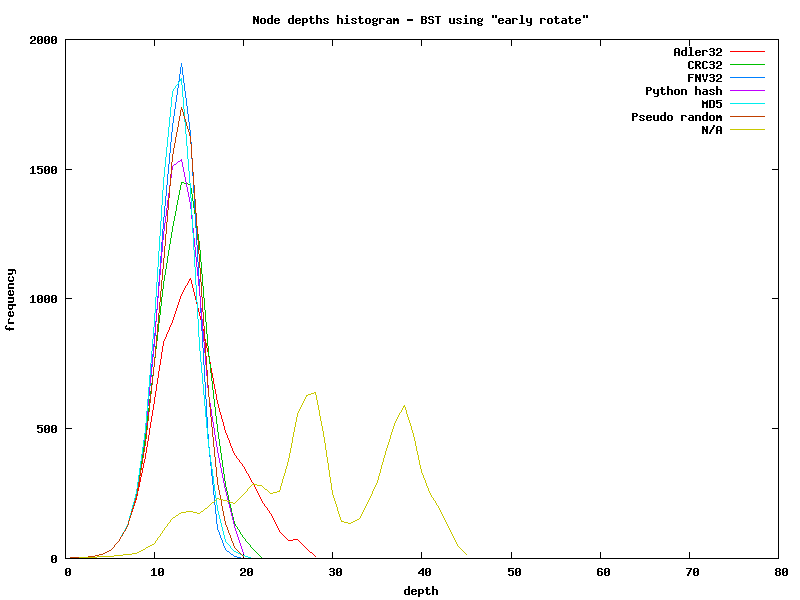
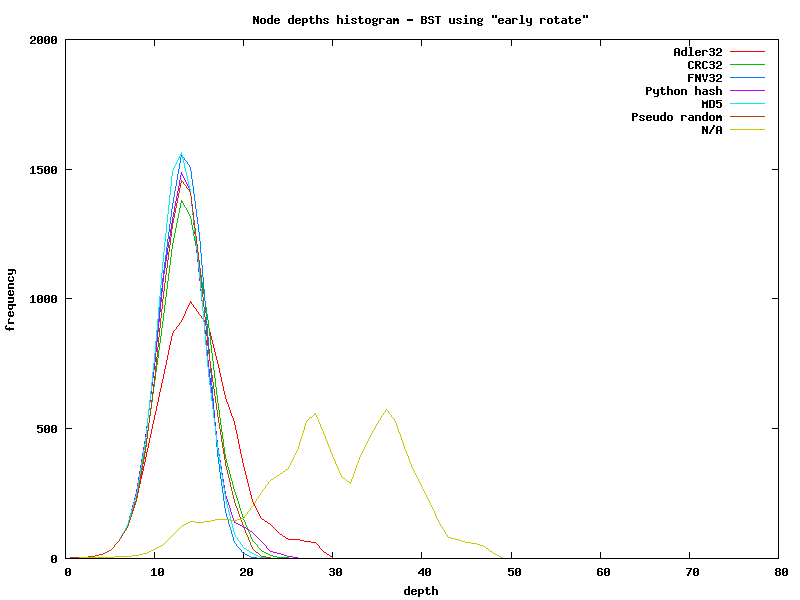
redesign tree early rotate implementation

diff --git a/TreeEarlyRotate.py b/TreeEarlyRotate.py
@@ -17,160 +17,59 @@
 #                /  \
 #          new node  prev
 
-from Tree import Tree
-from Node import Node
+from TreeCustomInsert import TreeCustomInsert
 
-class TreeEarlyRotate(Tree):
-	def insert(self, key, value):
-		if self.root is None:
-			self.root = Node(key, value)
-			return self.root
+class TreeEarlyRotate(TreeCustomInsert):
+	def custom_insert_left(self, new_leaf, node, prev1, prev2, prev3):
+		if prev1 is None or prev2 is None:
+			return
 
-		prev3 = None
-		prev2 = None
-		prev1 = None
-		node  = self.root
+		if node.children_count() == 0 and prev1.children_count() == 1:
+			assert new_leaf.key < node.key
 
-		def rotate_when_less(new_leaf):
-			if prev1 is None or prev2 is None:
-				return
+			if node is prev1.left:
+				prev2.replace_child(prev1, node)
+				node.left  = new_leaf
+				node.right = prev1
+			else:
+				prev2.replace_child(prev1, new_leaf)
+				new_leaf.left  = prev1
+				new_leaf.right = node
 
-			if node.children_count() == 0 and prev1.children_count() == 1:
-				assert new_leaf.key < node.key
+			prev1.make_leaf()
 
-				if node is prev1.left:
-					prev2.replace_child(prev1, node)
-					node.left  = new_leaf
-					node.right = prev1
-				else:
-					prev2.replace_child(prev1, new_leaf)
-					new_leaf.left  = prev1
-					new_leaf.right = node
+			new_leaf.validate()
+			node.validate()
+			prev1.validate()
+			prev2.validate()
 
-				prev1.make_leaf()
-
-				new_leaf.validate()
-				node.validate()
-				prev1.validate()
-				prev2.validate()
-
-				return True
-
-
-		def rotate_when_greater(new_leaf):
-			if prev1 is None or prev2 is None:
-				return
-
-			if node.children_count() == 0 and prev1.children_count() == 1:
-				assert new_leaf.key > node.key
-
-				if node is prev1.right:
-					prev2.replace_child(prev1, node)
-
-					node.right = new_leaf
-					node.left  = prev1
-				else:
-					prev2.replace_child(prev1, new_leaf)
-
-					new_leaf.right = prev1
-					new_leaf.left  = node
-
-				prev1.make_leaf()
-
-				new_leaf.validate()
-				node.validate()
-				prev1.validate()
-				prev2.validate()
-
-				return True
-
-
-		def balance_subtree(new_leaf):
-			if prev3 is None:
-				return
-
-			assert prev3 is not None
-			assert prev2 is not None
-			assert prev1 is not None
-			assert prev3.is_parent(prev2)
-			assert prev2.is_parent(prev1)
-			assert prev1.is_parent(node)
-
-			def is_skew(node, child):
-				other = node.other_child(child)
-				return other is None or other.is_leaf()
-
-			if not is_skew(prev2, prev1):
-				return
-
-			if not is_skew(prev1, node):
-				return
-
-			if not node.children_count() < 2:
-				return
-			
-			all_nodes = [
-				new_leaf,
-				node,
-				node.left,
-				node.right,
-				prev1,
-				prev1.other_child(node),
-				prev2,
-				prev2.other_child(prev1)
-			]
-
-			subtree_nodes = [n.make_leaf() for n in all_nodes if n is not None]
-			subtree_nodes.sort(key=lambda node: node.key)
-
-			def aux(a, b):
-				if a > b:
-					return
-
-				c = (a + b)/2
-
-				node = subtree_nodes[c]
-
-				node.left  = aux(a, c - 1)
-				node.right = aux(c + 1, b)
-
-				return node
-
-			new = aux(0, len(subtree_nodes) - 1)
-
-			prev3.replace_child(prev2, new)
-
-			#print "here"
 			return True
 
 
-		while True:
-			if key < node.get_key():
-				if node.left:
-					next = node.left
-				else:
-					new_leaf = Node(key, value)
-					if not rotate_when_less(new_leaf) and not balance_subtree(new_leaf):
-						node.left = new_leaf
+	def custom_insert_right(self, new_leaf, node, prev1, prev2, prev3):
+		if prev1 is None or prev2 is None:
+			return
 
-					return new_leaf
-			elif key > node.get_key():
-				if node.right:
-					next = node.right
-				else:
-					new_leaf = Node(key, value)
-					if not rotate_when_greater(new_leaf) and not balance_subtree(new_leaf):
-						node.right = new_leaf
+		if node.children_count() == 0 and prev1.children_count() == 1:
+			assert new_leaf.key > node.key
 
-					return new_leaf
+			if node is prev1.right:
+				prev2.replace_child(prev1, node)
+
+				node.right = new_leaf
+				node.left  = prev1
 			else:
-				if not node.has_value(value):
-					node.add_value(value)
+				prev2.replace_child(prev1, new_leaf)
 
-				return node
+				new_leaf.right = prev1
+				new_leaf.left  = node
 
+			prev1.make_leaf()
 
-			prev3 = prev2
-			prev2 = prev1
-			prev1 = node
-			node  = next
+			new_leaf.validate()
+			node.validate()
+			prev1.validate()
+			prev2.validate()
+
+			return True
+

diff --git a/TreeEarlyRotate2.py b/TreeEarlyRotate2.py
@@ -1,0 +1,86 @@
+# BST variant that does simple rotation in case when adding
+# new node would produce a chain like this (leafs are optional):
+# 
+#                     prev3 [subtree parent]
+#                     /
+#                   prev2
+#                   /  \
+#                prev1 leaf1
+#                /   \
+#              node leaf2
+#             /   \
+#        new node leaf3
+# 
+# Subtree rooted at prev2 is balaced.
+
+from TreeEarlyRotate import TreeEarlyRotate
+
+class TreeEarlyRotate2(TreeEarlyRotate):
+
+	def custom_insert_left(self, *args):
+		if not super(TreeEarlyRotate, self).custom_insert_left(*args):
+			return self.balance_subtree(*args)
+
+
+	def custom_insert_right(self, *args):
+		if not super(TreeEarlyRotate, self).custom_insert_right(*args):
+			return self.balance_subtree(*args)
+
+
+	def balance_subtree(self, new_leaf, node, prev1, prev2, prev3):
+		if prev3 is None:
+			return
+
+		assert prev3 is not None
+		assert prev2 is not None
+		assert prev1 is not None
+		assert prev3.is_parent(prev2)
+		assert prev2.is_parent(prev1)
+		assert prev1.is_parent(node)
+
+		def is_skew(node, child):
+			other = node.other_child(child)
+			return other is None or other.is_leaf()
+
+		if not is_skew(prev2, prev1):
+			return
+
+		if not is_skew(prev1, node):
+			return
+
+		if node.children_count() == 2:
+			return
+		
+		all_nodes = [
+			new_leaf,
+			node,
+			node.left,
+			node.right,
+			prev1,
+			prev1.other_child(node),
+			prev2,
+			prev2.other_child(prev1)
+		]
+
+		subtree_nodes = [n.make_leaf() for n in all_nodes if n is not None]
+		subtree_nodes.sort(key=lambda node: node.key)
+
+		def aux(a, b):
+			if a > b:
+				return
+
+			c = (a + b)/2
+
+			node = subtree_nodes[c]
+
+			node.left  = aux(a, c - 1)
+			node.right = aux(c + 1, b)
+
+			return node
+
+		new = aux(0, len(subtree_nodes) - 1)
+
+		prev3.replace_child(prev2, new)
+
+		return True
+

diff --git a/TreeCustomInsert.py b/TreeCustomInsert.py
@@ -1,0 +1,54 @@
+from Tree import Tree
+from Node import Node
+
+class TreeCustomInsert(Tree):
+
+	def custom_insert_left(self, new_node, node, prev1, prev2, prev3):
+		"returns True when new_node has been inserted to tree"
+		pass
+
+	def custom_insert_right(self, new_node, node, prev1, prev2, prev3):
+		"returns True when new_node has been inserted to tree"
+		pass
+
+	def insert(self, key, value):
+		if self.root is None:
+			self.root = Node(key, value)
+			return self.root
+
+		prev3 = None
+		prev2 = None
+		prev1 = None
+		node  = self.root
+
+		while True:
+			if key < node.get_key():
+				if node.left:
+					next = node.left
+				else:
+					new_leaf = Node(key, value)
+					if not self.custom_insert_left(new_leaf, node, prev1, prev2, prev3):
+						node.left = new_leaf
+
+					return new_leaf
+			elif key > node.get_key():
+				if node.right:
+					next = node.right
+				else:
+					new_leaf = Node(key, value)
+					if not self.custom_insert_right(new_leaf, node, prev1, prev2, prev3):
+						node.right = new_leaf
+
+					return new_leaf
+			else:
+				if not node.has_value(value):
+					node.add_value(value)
+
+				return node
+
+
+			prev3 = prev2
+			prev2 = prev1
+			prev1 = node
+			node  = next
+

diff --git a/trees.py b/trees.py
@@ -1,5 +1,6 @@
 from Tree import Tree
 from TreeEarlyRotate import TreeEarlyRotate
+from TreeEarlyRotate2 import TreeEarlyRotate2
 
 import avl
 from avl.adapters import AVLTreeAdapter
@@ -8,4 +9,5 @@ trees = {
 	'bst': Tree,
 	'avl': AVLTreeAdapter,
 	'earlyrotate': TreeEarlyRotate,
+	'earlyrotate2': TreeEarlyRotate2,
 }
